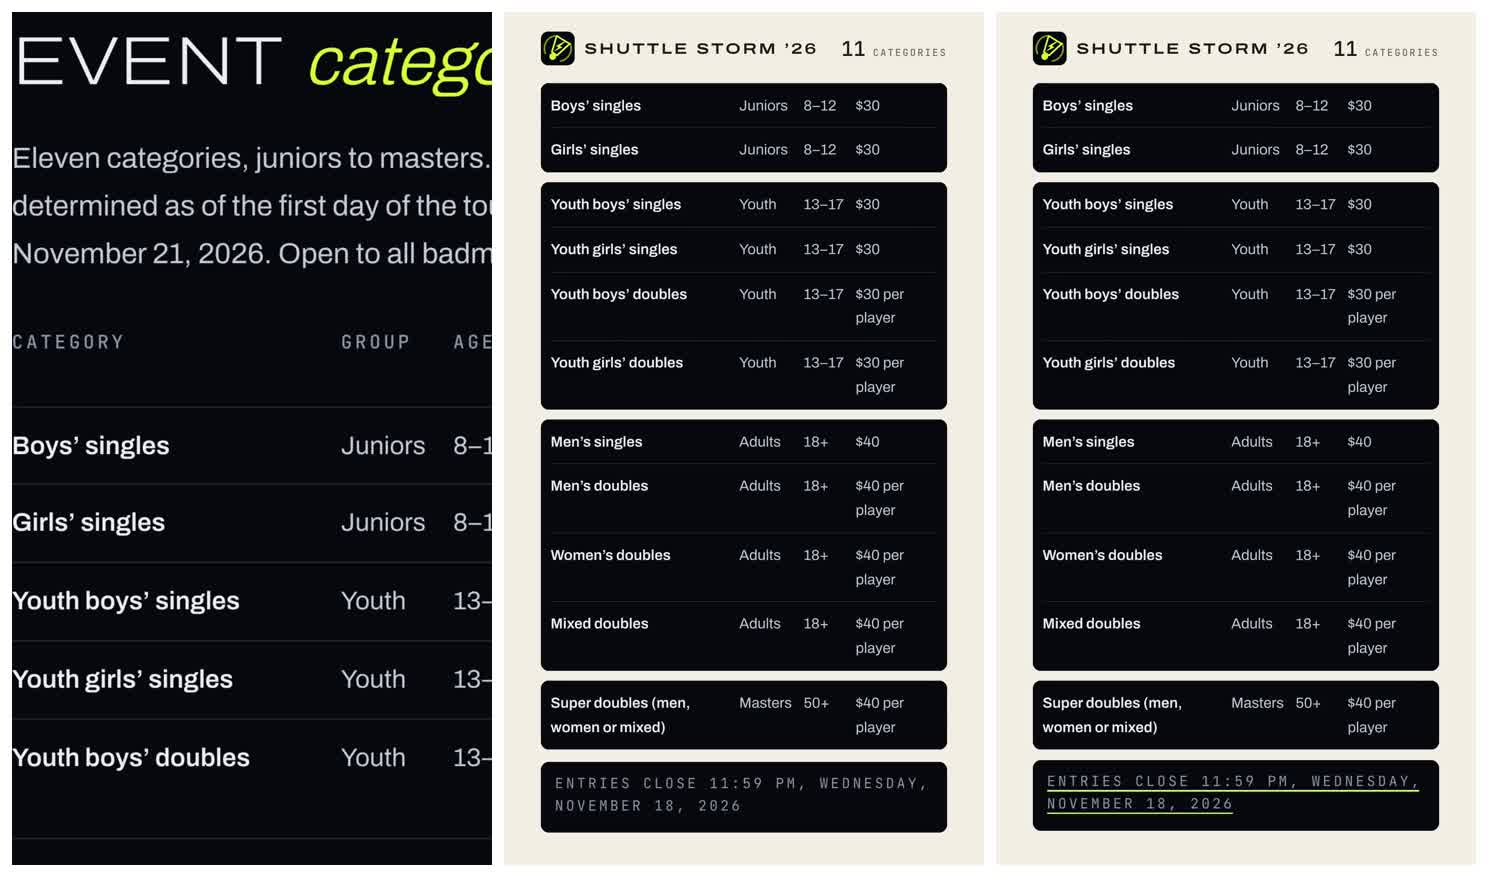
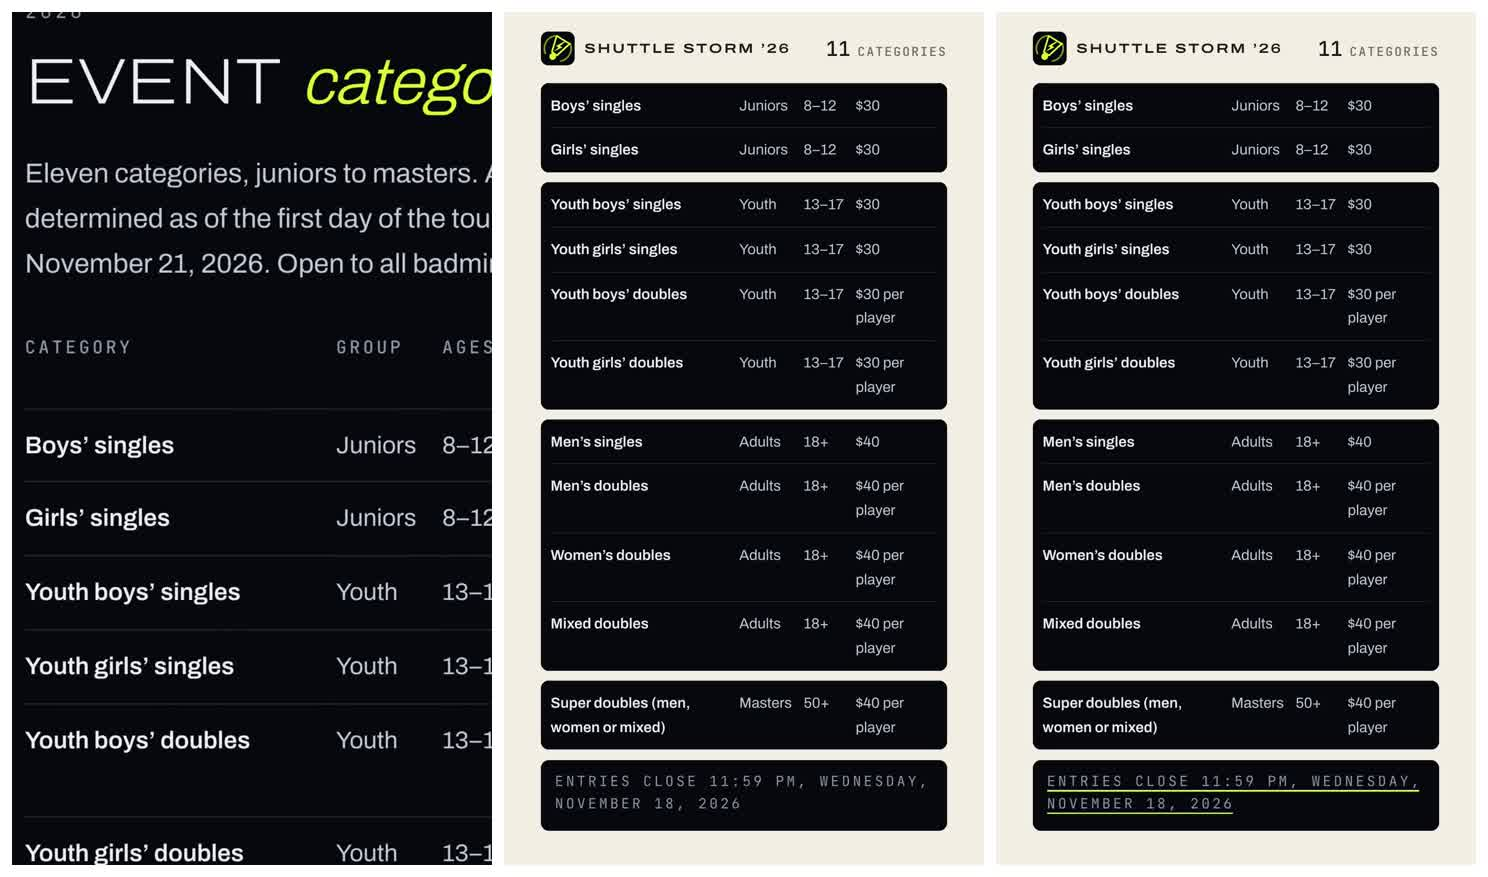
Shuttle Storm clip: fix the header pop, tighten the opening
Addresses the sixth critic review: the page header and its claim stay in
the phone and leave with it instead of vanishing in one frame; the page
hold is a slow push; the phone exits over 20 frames; the opening is
tight on 05 CATEGORIES; the CATEGORIES label is larger.

Claude-Session: https://claude.ai/code/session_01Q1qV7aXr3g9FSPdkydwqG5

diff --git a/motion-graphics/src/ShuttleStormRegister.tsx b/motion-graphics/src/ShuttleStormRegister.tsx
@@ -116,8 +116,8 @@ const tap = {
   x: SCREEN.x + (MENU_TEXT.x + MENU_TEXT.w * 0.55) * K,
   y: SCREEN.y + (MENU_TEXT.y + MENU_TEXT.h / 2) * K,
 };
-// Opening frame: the whole phone menu, from its header (mark + name) down.
-const menuFocus = { x: WIDTH / 2, y: PHONE.y - 10 + HEIGHT / 1.7 / 2 };
+// Opening frame: tight on "05 CATEGORIES" (numeral included), HOME to VENUE.
+const menuFocus = { x: SCREEN.x + 165 * K, y: tap.y - 6 * K };
 // Page frame: tight on the page's own claim and the first rows of its table
 // (CSS x 17–299, y 195–695), so the full eleven are only seen in the reveal.
 const pageFocus = { x: SCREEN.x + 158 * K, y: SCREEN.y + 445 * K };
@@ -125,10 +125,25 @@ const pageFocus = { x: SCREEN.x + 158 * K, y: SCREEN.y + 445 * K };
 const CLAIM = { x: 17.2, y: 271.1, w: 281.4, h: 19 };
 
 // Camera: hold → travel → hold. Repeated keys are holds.
-const KEY_T = [0, 18, 32, 60, 90, DURATION];
-const KEY_X = [menuFocus.x, menuFocus.x, pageFocus.x, pageFocus.x, WIDTH / 2, WIDTH / 2];
-const KEY_Y = [menuFocus.y, menuFocus.y, pageFocus.y, pageFocus.y, HEIGHT / 2, HEIGHT / 2];
-const KEY_Z = [1.7, 1.7, 2.75, 2.75, 1, 1];
+// The page hold is a slow push (2.6 → 2.85) rather than a static frame.
+const KEY_T = [0, 18, 32, 56, 86, DURATION];
+const KEY_X = [
+  menuFocus.x,
+  menuFocus.x,
+  pageFocus.x,
+  pageFocus.x,
+  WIDTH / 2,
+  WIDTH / 2,
+];
+const KEY_Y = [
+  menuFocus.y,
+  menuFocus.y,
+  pageFocus.y,
+  pageFocus.y,
+  HEIGHT / 2,
+  HEIGHT / 2,
+];
+const KEY_Z = [2.6, 2.6, 2.6, 2.85, 1, 1];
 
 export const ShuttleStormRegister: React.FC = () => {
   const frame = useCurrentFrame();
@@ -139,29 +154,47 @@ export const ShuttleStormRegister: React.FC = () => {
 
   // A fingertip lands on the real "05 Categories" link; the site's :active state
   // (menu.js: .ss-menu-list a:active{color:#D4FF3A}) turns its text volt.
-  const touchIn = interpolate(frame, [4, 9], [0, 1], { ...clamp, easing: Easing.out(Easing.cubic) });
+  const touchIn = interpolate(frame, [4, 9], [0, 1], {
+    ...clamp,
+    easing: Easing.out(Easing.cubic),
+  });
   const pressed = interpolate(frame, [9, 12, 16, 19], [0, 1, 1, 0], clamp);
   const touchVisible = frame >= 4 && frame < 20;
   const active = frame >= 11 && frame < 20 ? 1 : 0;
 
   // The link navigates: a clean cut to /categories; its own claim is underlined.
   const onCategories = frame >= 20;
-  const claimLine = interpolate(frame, [36, 50], [0, 1], { ...clamp, easing: ease });
+  const claimLine = interpolate(frame, [34, 46], [0, 1], {
+    ...clamp,
+    easing: ease,
+  });
 
   // The rows break out of the page together (no overlap) and, as the camera pulls
   // back, all eleven are revealed as a full-frame wall; the emptied phone shrinks
   // and drops out fast.
-  const lift = interpolate(frame, [60, 90], [0, 1], { ...clamp, easing: ease });
-  const phoneOut = interpolate(frame, [62, 76], [0, 1], {
+  const lift = interpolate(frame, [56, 86], [0, 1], { ...clamp, easing: ease });
+  const phoneOut = interpolate(frame, [58, 78], [0, 1], {
     ...clamp,
-    easing: Easing.in(Easing.cubic),
+    easing: ease,
   });
 
   // Lockup slides down into frame, the deadline card slides up, both opaque.
-  const lockupIn = interpolate(frame, [84, 100], [0, 1], { ...clamp, easing: Easing.out(Easing.cubic) });
-  const deadlineIn = interpolate(frame, [92, 108], [0, 1], { ...clamp, easing: Easing.out(Easing.cubic) });
-  const line1 = interpolate(frame, [110, 122], [0, 1], { ...clamp, easing: ease });
-  const line2 = interpolate(frame, [120, 128], [0, 1], { ...clamp, easing: ease });
+  const lockupIn = interpolate(frame, [80, 96], [0, 1], {
+    ...clamp,
+    easing: Easing.out(Easing.cubic),
+  });
+  const deadlineIn = interpolate(frame, [88, 104], [0, 1], {
+    ...clamp,
+    easing: Easing.out(Easing.cubic),
+  });
+  const line1 = interpolate(frame, [106, 118], [0, 1], {
+    ...clamp,
+    easing: ease,
+  });
+  const line2 = interpolate(frame, [116, 124], [0, 1], {
+    ...clamp,
+    easing: ease,
+  });
 
   const s = interpolate(lift, [0, 1], [K, WALL_S]);
 
@@ -187,13 +220,16 @@ export const ShuttleStormRegister: React.FC = () => {
             gap: 22,
           }}
         >
-          <Img src={staticFile("research/shuttle-storm-mark.svg")} style={{ width: 76, height: 76 }} />
+          <Img
+            src={staticFile("research/shuttle-storm-mark.svg")}
+            style={{ width: 76, height: 76 }}
+          />
           <div
             style={{
               fontFamily: ARCHIVO,
               fontWeight: 600,
               fontStretch: "125%",
-              fontSize: 34,
+              fontSize: 30,
               letterSpacing: "0.14em",
               color: INK,
               textTransform: "uppercase",
@@ -222,7 +258,9 @@ export const ShuttleStormRegister: React.FC = () => {
           }}
         >
           <span style={{ fontSize: 46, lineHeight: 1 }}>11</span>
-          <span style={{ fontSize: 22, letterSpacing: "0.16em", color: MUTED }}>CATEGORIES</span>
+          <span style={{ fontSize: 28, letterSpacing: "0.12em", color: MUTED }}>
+            CATEGORIES
+          </span>
         </div>
 
         {/* The phone: menu → categories page. */}
@@ -236,7 +274,8 @@ export const ShuttleStormRegister: React.FC = () => {
             borderRadius: 72,
             backgroundColor: DEVICE,
             transform: `translateY(${phoneOut * 2300}px) scale(${1 - 0.35 * phoneOut})`,
-            boxShadow: "0 40px 80px rgba(40, 32, 20, 0.16), 0 8px 18px rgba(40, 32, 20, 0.12)",
+            boxShadow:
+              "0 40px 80px rgba(40, 32, 20, 0.16), 0 8px 18px rgba(40, 32, 20, 0.12)",
           }}
         >
           <div
@@ -261,29 +300,54 @@ export const ShuttleStormRegister: React.FC = () => {
               }}
             >
               {onCategories ? (
-                lift > 0 ? null : (
-                  <div style={{ position: "absolute", width: CSS_W, height: CATEGORIES_PAGE_H }}>
-                    <Img
-                      src={staticFile("research/site-categories.png")}
-                      style={{ width: CSS_W, height: CATEGORIES_PAGE_H, display: "block" }}
-                    />
+                <div
+                  style={{
+                    position: "absolute",
+                    width: CSS_W,
+                    height: CATEGORIES_PAGE_H,
+                  }}
+                >
+                  <Img
+                    src={staticFile("research/site-categories.png")}
+                    style={{
+                      width: CSS_W,
+                      height: CATEGORIES_PAGE_H,
+                      display: "block",
+                    }}
+                  />
+                  <div
+                    style={{
+                      position: "absolute",
+                      left: CLAIM.x,
+                      top: CLAIM.y + CLAIM.h - 1,
+                      width: CLAIM.w * claimLine,
+                      height: 1.6,
+                      backgroundColor: VOLT,
+                    }}
+                  />
+                  {/* Once the rows lift out, their slots in the page are left empty. */}
+                  {lift > 0 ? (
                     <div
                       style={{
                         position: "absolute",
-                        left: CLAIM.x,
-                        top: CLAIM.y + CLAIM.h - 1,
-                        width: CLAIM.w * claimLine,
-                        height: 1.6,
-                        backgroundColor: VOLT,
+                        left: 0,
+                        top: ROWS[0][0],
+                        width: CSS_W,
+                        height: ROWS[10][0] + ROWS[10][1] - ROWS[0][0],
+                        backgroundColor: SITE_INK,
                       }}
                     />
-                  </div>
-                )
+                  ) : null}
+                </div>
               ) : (
                 <>
                   <Img
                     src={staticFile("research/site-menu.png")}
-                    style={{ position: "absolute", width: CSS_W, height: CSS_H }}
+                    style={{
+                      position: "absolute",
+                      width: CSS_W,
+                      height: CSS_H,
+                    }}
                   />
                   {/* :active — the white link text turns volt (multiply keeps the ink black). */}
                   <div
@@ -315,8 +379,16 @@ export const ShuttleStormRegister: React.FC = () => {
                   key={i}
                   style={{
                     position: "absolute",
-                    left: interpolate(lift, [0, 1], [SCREEN.x + CROP_X * K, MARGIN]),
-                    top: interpolate(lift, [0, 1], [SCREEN.y + top * K, wallTops[i]]),
+                    left: interpolate(
+                      lift,
+                      [0, 1],
+                      [SCREEN.x + CROP_X * K, MARGIN],
+                    ),
+                    top: interpolate(
+                      lift,
+                      [0, 1],
+                      [SCREEN.y + top * K, wallTops[i]],
+                    ),
                     width: CROP_W * s,
                     height: h * s,
                     overflow: "hidden",

diff --git a/motion-graphics/.promptible/research-brief.md b/motion-graphics/.promptible/research-brief.md
@@ -24,7 +24,7 @@ The site is near-black ink (#06080D) with bone text (#ECEEF2), a single flat vol
 
 ## Motion plan
 
-Open on the whole real phone menu, from its header (Shuttle Storm mark and name) down. An opaque flat fingertip mark lands on "05 CATEGORIES" and the site's own :active state turns the text volt (menu.js `.ss-menu-list a:active{color:#D4FF3A}`); then a clean cut to /categories, and the camera pushes in tight on the page's own claim, "Eleven categories, juniors to masters." (measured at CSS 17,271, 281×19), which gets a flat volt underline. Only the first five table rows are in frame. Then the rows break out of the page together, keeping their proportions (no clipping or overlap), while the camera pulls back from 2.75× to 1×: all eleven are revealed at once as a full-frame wall separated by the page's own Group column (Juniors, Youth, Adults, Masters), proving the claim spatially. The emptied phone shrinks and drops out fast. The rows stay authentic screenshot crops throughout, never re-typed. The lockup (site brand style: 600, 125% wide, .14em) slides in at the top edge with "11 CATEGORIES" beside it, and the register page's own deadline line (scaled crop, authentic mono grey) slides up from the bottom with a flat volt underline. All cards move fully opaque. Stable end hold of about 2.7 s.
+Open tight on the real phone menu around "05 CATEGORIES" (numeral included, HOME to VENUE in frame). An opaque flat fingertip mark lands on the link and the site's own :active state turns the text volt (menu.js `.ss-menu-list a:active{color:#D4FF3A}`); then a clean cut to /categories, and the camera pushes in tight on the page's own claim, "Eleven categories, juniors to masters." (measured at CSS 17,271, 281×19), which gets a flat volt underline during a slow push-in. Only the first five table rows are in frame. Then the rows break out of the page together (the page header stays in the phone and leaves with it), keeping their proportions (no clipping or overlap), while the camera pulls back from 2.75× to 1×: all eleven are revealed at once as a full-frame wall separated by the page's own Group column (Juniors, Youth, Adults, Masters), proving the claim spatially. The emptied phone shrinks and drops out fast. The rows stay authentic screenshot crops throughout, never re-typed. The lockup (site brand style: 600, 125% wide, .14em) slides in at the top edge with "11 CATEGORIES" beside it, and the register page's own deadline line (scaled crop, authentic mono grey) slides up from the bottom with a flat volt underline. All cards move fully opaque. Stable end hold of about 2.7 s.
 
 ## Avoid
 
